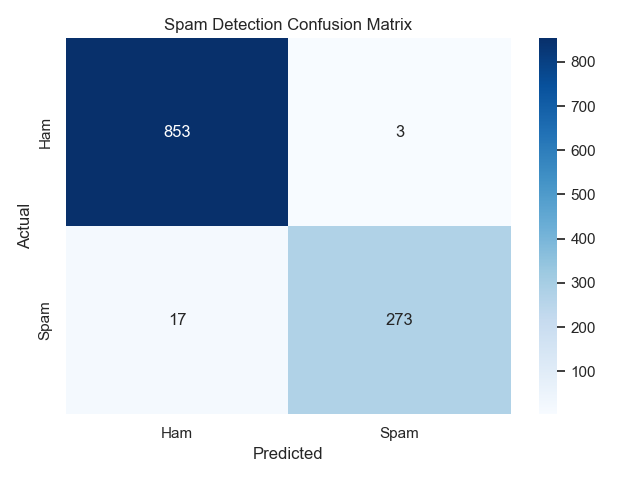
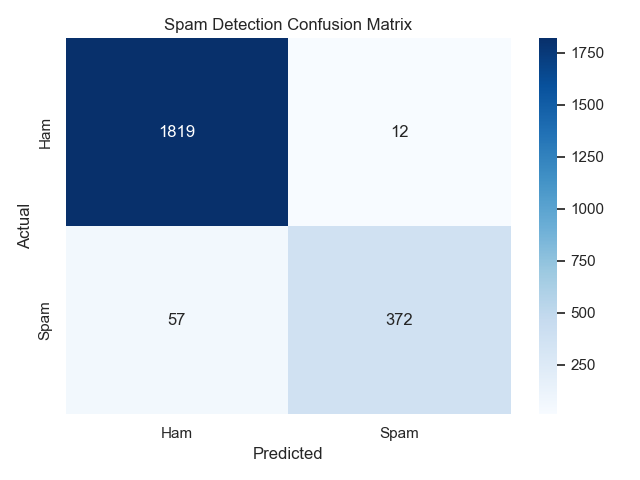
fixed up the code to using kaggle spam data, fixed up the jupyter notes to use base data than the path

diff --git a/spam_detection.py b/spam_detection.py
@@ -5,20 +5,46 @@ from sklearn.feature_extraction.text import TfidfVectorizer
 from sklearn.linear_model import LogisticRegression
 from sklearn.metrics import classification_report, confusion_matrix, accuracy_score
 import seaborn as sns
+import os
 
-# Load dataset
-df = pd.read_csv("data/spam_dataset.csv")
+# === Load both datasets ===
+# Original dataset
+df1 = pd.read_csv("data/spam_dataset.csv")
 
-# Basic info
-print("Dataset size:", df.shape)
+# Kaggle dataset (with encoding fallback)
+try:
+    df2 = pd.read_csv("data/kaggle_spam.csv", encoding="utf-8")
+except UnicodeDecodeError:
+    df2 = pd.read_csv("data/kaggle_spam.csv", encoding="latin-1")
+
+# === Clean / standardize Kaggle dataset ===
+# Keep relevant columns and rename
+df2 = df2[["v1", "v2"]]
+df2.columns = ["label", "text"]
+df2["spam"] = df2["label"].map({"ham": 0, "spam": 1})
+df2 = df2.dropna(subset=["text"])
+
+# === Clean / standardize original dataset ===
+# (Assuming it already has "text" and "spam" columns)
+if "spam" not in df1.columns or "text" not in df1.columns:
+    raise ValueError("Original dataset must have columns 'text' and 'spam'.")
+
+# === Combine both ===
+df = pd.concat([df1[["text", "spam"]], df2[["text", "spam"]]], ignore_index=True)
+
+# === Check combined dataset ===
+print("Combined dataset size:", df.shape)
 print(df.head())
+
+# Ensure results folder exists
+os.makedirs("results", exist_ok=True)
 
 # === Simple class distribution bar graph ===
 sns.set(style="whitegrid")
 plt.figure(figsize=(5, 4))
-class_counts = df["spam"].value_counts().sort_index()  # ensure 0 (ham) then 1 (spam)
+class_counts = df["spam"].value_counts().sort_index()
 sns.barplot(x=["Ham", "Spam"], y=class_counts.values, palette=["#4CAF50", "#F44336"])
-plt.title("Dataset Class Distribution")
+plt.title("Combined Dataset Class Distribution")
 plt.xlabel("Message Type")
 plt.ylabel("Count")
 for i, v in enumerate(class_counts.values):
@@ -27,28 +53,26 @@ plt.tight_layout()
 plt.savefig("results/spam_class_distribution.png")
 plt.show()
 
-# Split features + labels
+# === Train/test split ===
 X = df["text"]
 y = df["spam"]
-
-# Train/test split
 X_train, X_test, y_train, y_test = train_test_split(
     X, y, test_size=0.2, random_state=42
 )
 
-# TF-IDF vectorization
+# === TF-IDF Vectorization ===
 vectorizer = TfidfVectorizer(stop_words="english", max_features=3000)
 X_train_tfidf = vectorizer.fit_transform(X_train)
 X_test_tfidf = vectorizer.transform(X_test)
 
-# Model training
+# === Model training ===
 model = LogisticRegression(max_iter=200)
 model.fit(X_train_tfidf, y_train)
 
-# Predictions
+# === Predictions ===
 y_pred = model.predict(X_test_tfidf)
 
-# Evaluation
+# === Evaluation ===
 print("Accuracy:", accuracy_score(y_test, y_pred))
 report = classification_report(y_test, y_pred)
 print(report)
@@ -57,7 +81,7 @@ print(report)
 with open("results/spam_report.txt", "w") as f:
     f.write(report)
 
-# Confusion matrix
+# === Confusion matrix ===
 cm = confusion_matrix(y_test, y_pred)
 sns.heatmap(
     cm,
